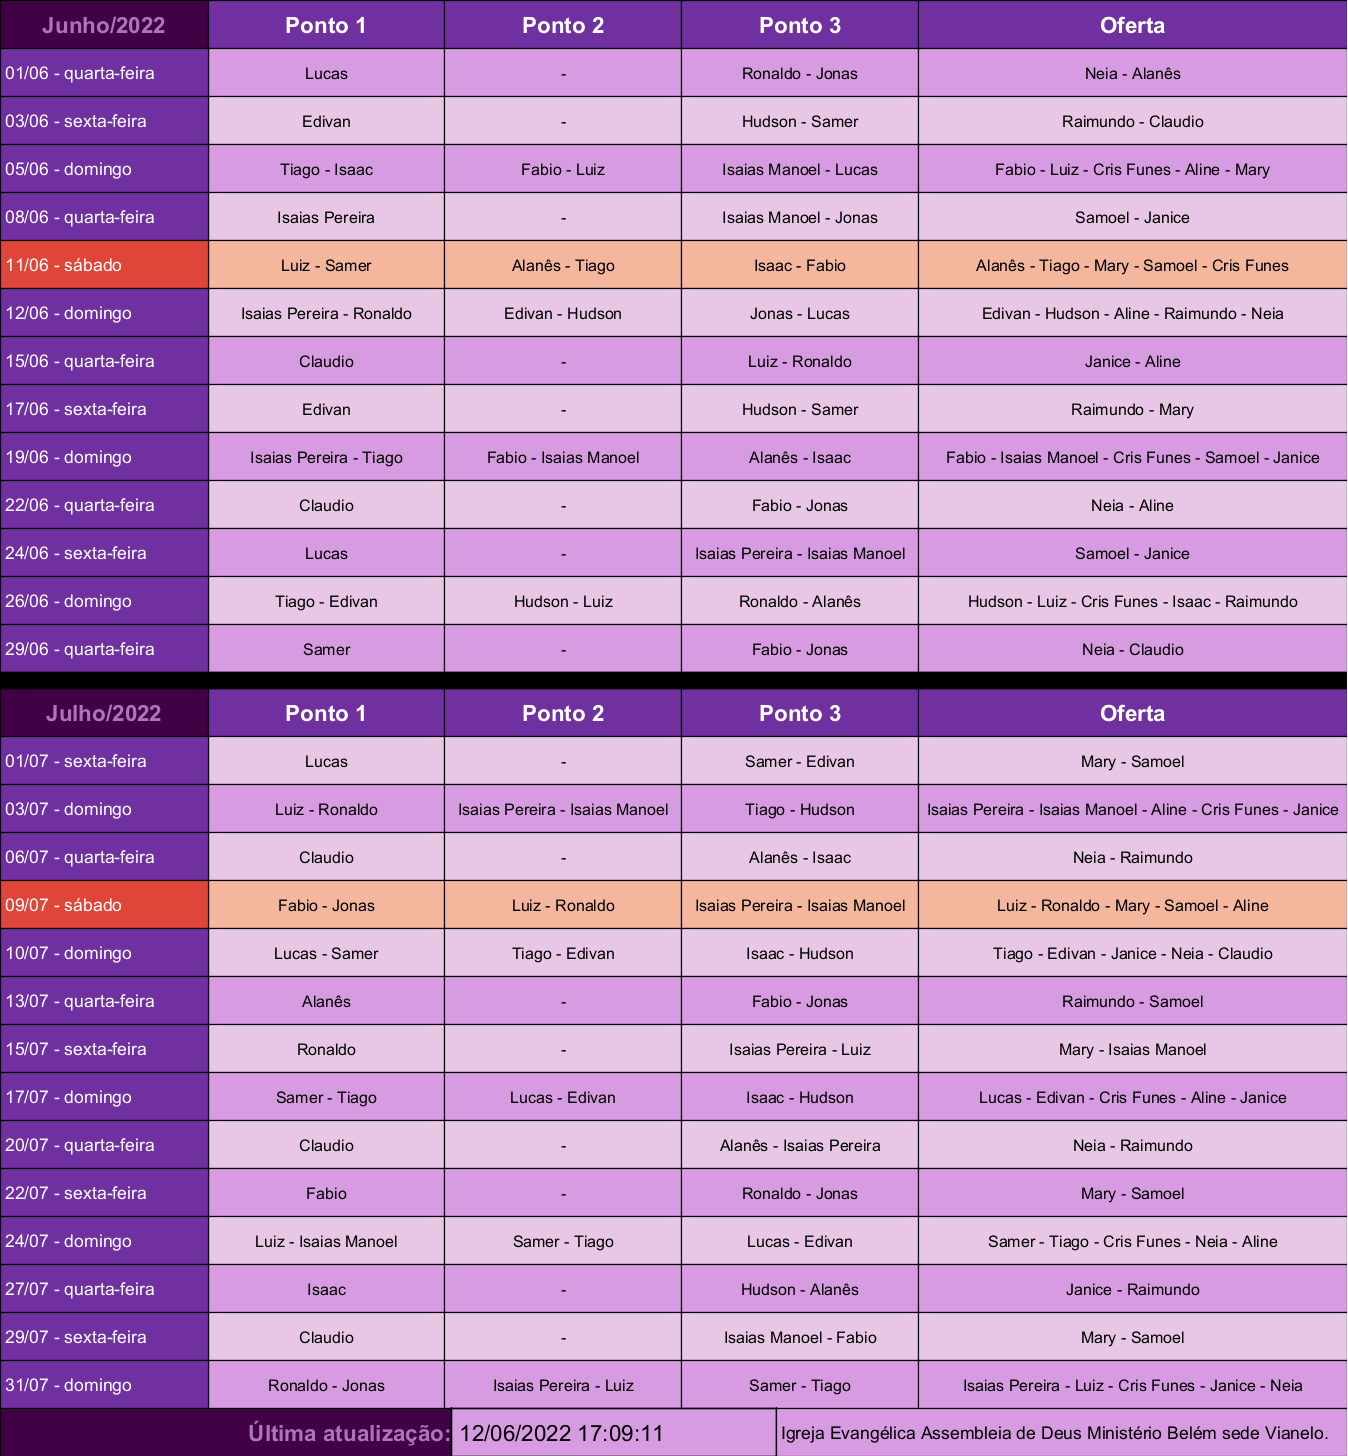
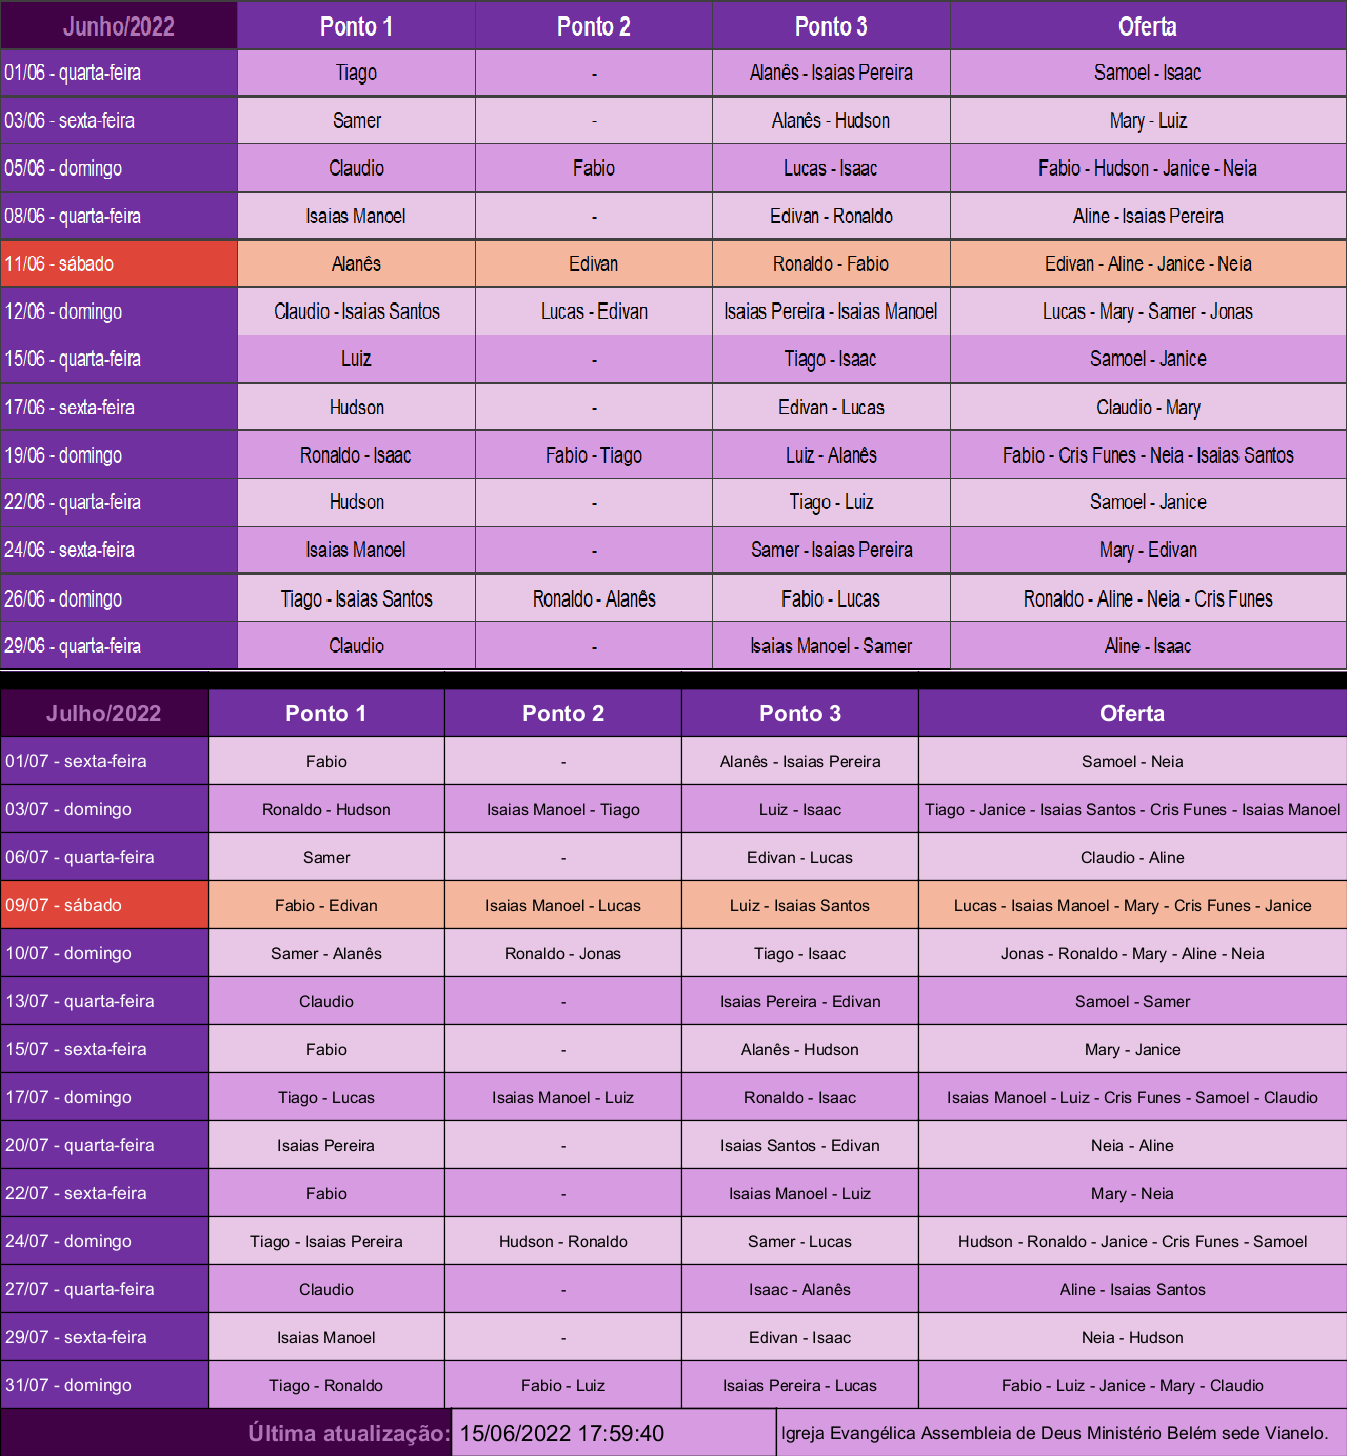
Lançamento escala oficial

diff --git a/index.htm b/index.htm
@@ -5,7 +5,7 @@
 <head>
   <meta http-equiv="Content-Type" content="text/html; charset=UTF-8">
   <meta name="viewport" content="width=device-width, initial-scale=1">
-  <link rel="icon" href="logo.ico" />
+  <link rel="icon" href="Logo.ico" />
   <title>Escala Obreiros</title>
   <style type="text/css">
     #obj {
@@ -114,7 +114,7 @@
         <button type="button" class="collapsible">Mapa da nave da igreja</button>
         <div class="content">
           <div id="mapa">
-            <img src="planta.jpg" alt="Planta" width="100%">
+            <img src="Planta.jpg" alt="Planta" width="100%">
           </div>
         </div>
       </div>
@@ -122,14 +122,7 @@
   </div>
   <div>
     <hr>
-    <!--
-<object type="text/html" data="EscalaFrame.htm" id="obj" />
-    -->
-    
-
-
     <img src="Escala.png" alt="Escala" width="100%">
-
   </div>
 </body>
 <script>
